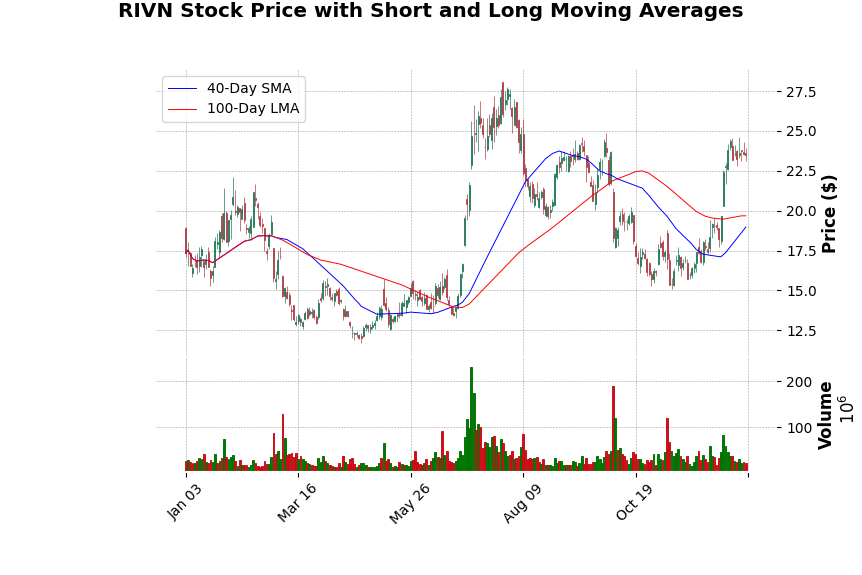
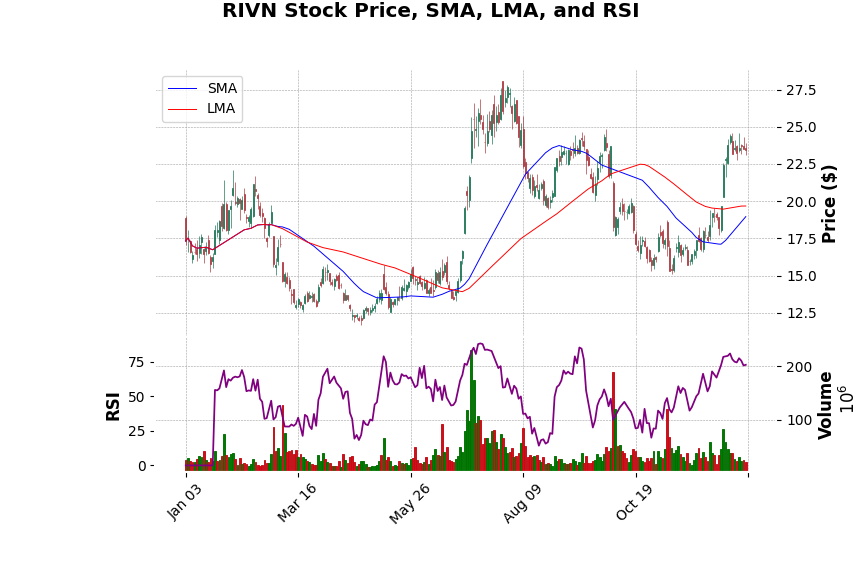
plotting rsi

diff --git a/momentum.py b/momentum.py
@@ -22,7 +22,7 @@ start_date = "2023-01-01"
 end_date = "2024-01-01"
 
 # Directly use AAPL as the stock of interest
-symbol = 'GOOG'
+symbol = 'RIVN'
 
 def fetch_momentum_data(symbol):
     try:
@@ -42,23 +42,32 @@ def fetch_momentum_data(symbol):
 
 # Visualize the AAPL stock data with SMA and LMA
 def visualize_stock(data, symbol):
+    # Add plots for SMA and LMA
     ap = [
         mpf.make_addplot(data['SMA'], color='blue', width=0.7),
-        mpf.make_addplot(data['LMA'], color='red', width=0.7)
+        mpf.make_addplot(data['LMA'], color='red', width=0.7),
     ]
     
-    fig, axlist = mpf.plot(data, type='candle', style='charles', addplot=ap,
-                           title=f"{symbol} Stock Price with Short and Long Moving Averages",
-                           ylabel='Price ($)',
-                           volume=True, ylabel_lower='Volume',
-                           figratio=(12, 8), returnfig=True)
+    # Specify RSI plot in a separate panel below the main chart
+    rsi_plot = mpf.make_addplot(data['RSI'], panel=1, color='purple', ylabel='RSI')
     
-    # Create custom legend handles
-    blue_line = mlines.Line2D([], [], color='blue', label='40-Day SMA', linewidth=0.7)
-    red_line = mlines.Line2D([], [], color='red', label='100-Day LMA', linewidth=0.7)
+    # Add RSI plot to the list of additional plots
+    ap.append(rsi_plot)
+
+    # Make sure `panel_ratios` matches the number of panels you're creating
+    # Here, it's 2: one for the price and SMA/LMA, another for RSI
+    fig, axes = mpf.plot(data, type='candle', style='charles', addplot=ap,
+                         title=f"{symbol} Stock Price, SMA, LMA, and RSI",
+                         ylabel='Price ($)',
+                         volume=True, ylabel_lower='Volume',
+                         figratio=(12, 8), returnfig=True, panel_ratios=(6, 3))
     
-    # Add the legend to the first (price) axis
-    axlist[0].legend(handles=[blue_line, red_line], loc='upper left')
+    # Adding custom legend for SMA and LMA
+    axes[0].legend(handles=[mlines.Line2D([], [], color='blue', label='SMA', linewidth=0.7),
+                            mlines.Line2D([], [], color='red', label='LMA', linewidth=0.7)],
+                   loc='upper left')
+
+
     
 def calculate_rsi(data, window=14):
     delta = data['Close'].diff()
@@ -69,15 +78,31 @@ def calculate_rsi(data, window=14):
     rsi = 100 - (100 / (1 + rs))
     data['RSI'] = rsi.fillna(0)  # Fill NA values with 0 for simplicity
 
-def generate_signals(data):
-    # Assuming 'Signal' column already exists and is initialized to 0
-    # Buy signal: SMA > LMA and RSI < 30
-    buy_signals = (data['SMA'] > data['LMA']) & (data['RSI'] < 30)
-    data.loc[buy_signals, 'Signal'] = 1
+def generate_signals_with_risk_management(data):
+    stop_loss_pct = 0.05  # 5% stop loss
+    take_profit_pct = 0.10  # 10% take profit
+    # Initialize additional columns for tracking
+    data['Entry Price'] = np.nan
+    data['Exit Signal'] = 0
+    
+    for i in range(1, len(data)):
+        # Entry signal (for simplicity, assuming buy at close)
+        if data.loc[data.index[i-1], 'Signal'] == 1:
+            data.loc[data.index[i], 'Entry Price'] = data.loc[data.index[i], 'Close']
+        
+        if not np.isnan(data.loc[data.index[i-1], 'Entry Price']):
+            entry_price = data.loc[data.index[i-1], 'Entry Price']
+            current_price = data.loc[data.index[i], 'Close']
+            
+            # Calculate returns since entry
+            returns_since_entry = (current_price - entry_price) / entry_price
+            
+            # Check for stop-loss or take-profit conditions
+            if returns_since_entry <= -stop_loss_pct:
+                data.loc[data.index[i], 'Exit Signal'] = -1  # Stop-loss triggered
+            elif returns_since_entry >= take_profit_pct:
+                data.loc[data.index[i], 'Exit Signal'] = 1  # Take-profit triggered
 
-    # Sell signal: SMA < LMA or RSI > 70
-    sell_signals = (data['SMA'] < data['LMA']) | (data['RSI'] > 70)
-    data.loc[sell_signals, 'Signal'] = -1
 
 
 def calculate_momentum_returns(data):
@@ -102,7 +127,7 @@ if data is not None:
     calculate_rsi(data)
 
     # Generate signals using SMA, LMA, and RSI
-    generate_signals(data)
+    generate_signals_with_risk_management(data)
 
     # Visualization and calculation of returns
     visualize_stock(data, symbol)
